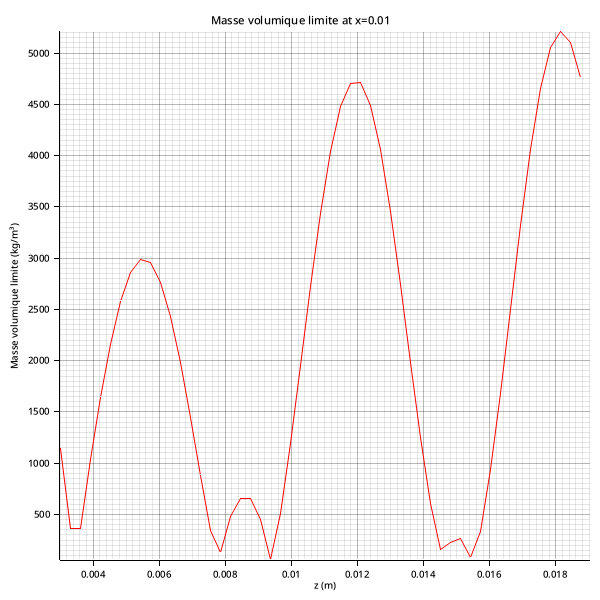
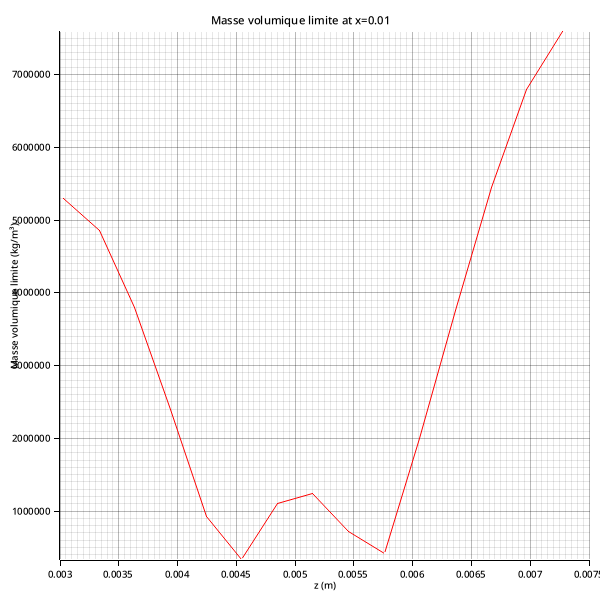
french comment

Changed region(s): [[0.0, 0.03, 1.0, 0.99]]

diff --git a/src/matrix_method/pressure_field.rs b/src/matrix_method/pressure_field.rs
@@ -197,26 +197,35 @@ pub fn compute_pressure_fields(
     add_owned_matrices(pressure_fields) // global pressure field
 }
 
-/// compute the pressure field for each points thanks to the matrix method - **only for 1 transducer**
-///
-/// Output a **complex** field, only the real part of the field correspond to the actual pressure field
+/// Calcul le champ de pression en chaque point grâce à la methode matricielle
+/// Renvoie un champ complexe, seul la partie reel a un sens physique
+/// Version 1 émetteur, généralisation plus longue à coder mais dans le principe
+/// on somme les pressions de chaque émetteur en négligant les réflexion sur les
+/// autres émetteur
+/// Code source entier: https://github.com/Ilingu/levicoustic
 #[allow(non_snake_case)]
 pub fn compute_pressure_field(simulation_params: impl Into<SimulationParameters>) -> Field {
     let SimulationParameters {
+        // dimensions du probleme
         x_min,
         x_max,
         z_min,
         z_max,
 
+        // nombre de reflection voulu
         nb_reflection,
+        // Taille de chaque cellule
         disc,
 
         offset,
+        // Rayon de l'emetteur
         radius: R,
         transducer_area,
         hole_area,
         phase,
+        // L'amplitude de deplacement des atomes: L = nVd = 10.4nm ici
         u_0,
+        // Eventuelle inclinaison de l'emetteur
         inclination,
 
         reflector_area,
@@ -227,7 +236,7 @@ pub fn compute_pressure_field(simulation_params: impl Into<SimulationParameters>
         d,
         ..
     }: SimulationParameters = simulation_params.into();
-    // convert deg to rad
+    // convertie les deg en rad
     let (inclination, phase) = (inclination.to_radians(), phase.to_radians());
 
     // Array indices
@@ -236,7 +245,7 @@ pub fn compute_pressure_field(simulation_params: impl Into<SimulationParameters>
     let Z: usize = ((z_max - z_min) / disc) as usize;
     let M: usize = L * Z;
 
-    // Creation of grid, indices, and distance arrays
+    // Création de l'espace, indices, et les matrices de distances
     let x: Array1<f64> = Array1::linspace(x_min, x_max, L);
     let z: Array1<f64> = Array1::linspace(z_min, z_max, Z);
     let transducer: Array1<(f64, f64)> = Array1::linspace(-R, R, N)
@@ -248,12 +257,12 @@ pub fn compute_pressure_field(simulation_params: impl Into<SimulationParameters>
             )
         });
 
-    // Create zeroed distance arrays in memory
+    // Initialise les matrices à 0 dans la RAM
     let mut r_nm: Array2<f64> = Array2::zeros((N, M));
     let mut r_im: Array2<f64> = Array2::zeros((L, M));
     let mut r_in: Array2<f64> = Array2::zeros((N, L));
 
-    // Calculate distance array r_nm
+    // Calcul la matrice de distance r_nm
     for i in 0..N {
         let mut q = 0;
         for j in 0..L {
@@ -265,7 +274,7 @@ pub fn compute_pressure_field(simulation_params: impl Into<SimulationParameters>
         }
     }
 
-    // Calculate distance array r_im
+    // Calcul la matrice de distance r_im
     for i in 0..L {
         let mut q = 0;
         for j in 0..L {
@@ -276,7 +285,7 @@ pub fn compute_pressure_field(simulation_params: impl Into<SimulationParameters>
         }
     }
 
-    // Calculate distance array r_in
+    // Calcul la matrice de distance r_in
     for i in 0..N {
         for j in 0..L {
             let (tx, tz) = transducer[i];
@@ -286,19 +295,19 @@ pub fn compute_pressure_field(simulation_params: impl Into<SimulationParameters>
 
     let r_ni = r_in.t();
 
-    // Creation of cell discretization and transfer matrices calculations
-    let cells = 100.0; // Number of discrete cells
+    // Paramètres de discrétisation des cellules et calcul des matrices de tranfère
+    let cells = 100.0; // Nombre de cellule discrète
     let sn = transducer_area / cells; // Unit cell area for transducer
     let si = reflector_area / (cells * 4.0); // Unit cell area for reflector
     let sh = hole_area / cells; // Unit cell area for transducer hole
 
-    // Create zeroed transfer matrices in memory
+    // Initialise les matrice de tranfère à 0 dans la RAM
     let mut t_tm: Array2<Complex<f64>> = Array2::zeros((N, M));
     let mut t_tr: Array2<Complex<f64>> = Array2::zeros((N, L));
     let mut t_rt: Array2<Complex<f64>> = Array2::zeros((L, N));
     let mut t_rm: Array2<Complex<f64>> = Array2::zeros((L, M));
 
-    // Calculate transfer matrices
+    // Calcul les matrices de transfères
     for i in 0..N {
         for j in 0..M {
             t_tm[[i, j]] = ((sn * (-I * wavenumber * r_nm[[i, j]]).exp()) / r_nm[[i, j]])
@@ -325,20 +334,20 @@ pub fn compute_pressure_field(simulation_params: impl Into<SimulationParameters>
         }
     }
 
-    // Rotation for column notation
+    // On prend le symetrique de ces matrices pour les avoir en column
     let t_tm = t_tm.t().to_owned();
     let t_tr = t_tr.t().to_owned();
     let t_rt = t_rt.t().to_owned();
     let t_rm = t_rm.t().to_owned();
 
-    // Boundary conditions of transducer
+    // Condition limite au bord de l'émetteur
     #[allow(non_snake_case)]
     let mut U: Array2<Complex<f64>> = Array2::zeros((N, 1));
     for i in 0..N {
         U[[i, 0]] = u_0 * (I * (omega + phase)).exp()
     }
 
-    // Calculation of pressure, where each reflection is an order of approximation
+    // Calcul de la pression grâce à la formule du papier, où chaque réflection est un ordre d'approximation
     let mut pressure_base = Complex::new(d, 0.0) * t_tm.dot(&U);
     for n in 1..=nb_reflection {
         pressure_base = pressure_base
@@ -351,14 +360,12 @@ pub fn compute_pressure_field(simulation_params: impl Into<SimulationParameters>
         .t()
         .to_owned()
 }
-
-/* HELPERS */
-
+/* Fonctions auxiliaires */
 fn rotation_matrix(theta: f64) -> Array2<f64> {
     array![[theta.cos(), -theta.sin()], [theta.sin(), theta.cos()]]
 }
 
-/// list all the transfer matrices necessary for the nth reflection of the wave and return their product
+/// Liste toutes les matrices de transfert nécessaires pour la n-ième réflexion de l'onde et renvoie leur produit
 fn nth_reflection(
     n: u8,
     [tm, tr, rt, rm, u]: [&Array2<Complex<f64>>; 5],

diff --git a/src/main.rs b/src/main.rs
@@ -1,7 +1,9 @@
 use std::fs;
 
 use matrix_method::{
-    potential_field::{compute_limit_density, compute_relative_potential_field},
+    potential_field::{
+        compute_limit_density, compute_relative_potential_field, compute_sound_intensity,
+    },
     pressure_field::{compute_pressure_field, compute_pressure_fields},
     radiation_force::compute_radiation_force_field,
     Field, FieldType, SimulationParametersArgs, MM,
@@ -25,7 +27,7 @@ fn main() {
         z_min: 0.0 * MM,
         z_max: 49.0 * MM,
 
-        nb_reflection: 4,
+        nb_reflection: 0,
         disc: 0.3 * MM,
 
         freq: 28_000.0,
@@ -64,7 +66,7 @@ fn plot_and_graph(pressure: Field, (spg, multiple_simulation): (SimulationParame
     let relative_potential_field = compute_relative_potential_field(&pressure, spg);
     plot_field(
         (&relative_potential_field, FieldType::RadiationPotential),
-        (None, 30.0),
+        (None, 25.0),
         (spg, multiple_simulation),
         "./out/field/acoustic_radiation_potential.png",
     )
@@ -87,6 +89,7 @@ fn plot_and_graph(pressure: Field, (spg, multiple_simulation): (SimulationParame
     )
     .expect("Failed to graph force field");
 
+    return;
     // Density limit plotting
     let density_limit = compute_limit_density(&pressure, spg);
     plot_field(
@@ -95,15 +98,15 @@ fn plot_and_graph(pressure: Field, (spg, multiple_simulation): (SimulationParame
         (spg, multiple_simulation),
         "./out/field/density_limit.png",
     )
-    .expect("Failed to draw force field");
+    .expect("Failed to draw density field");
     graph_field(
         (&density_limit, FieldType::LimitDensity),
         (
             0.01,
-            Some(vec![(0.003, CutOption::Left), (0.03, CutOption::Right)]),
+            Some(vec![(0.003, CutOption::Left), (0.0325, CutOption::Right)]),
         ),
         (spg, multiple_simulation),
         "./out/graph/density_graph.png",
     )
-    .expect("Failed to graph force field");
+    .expect("Failed to graph density");
 }
